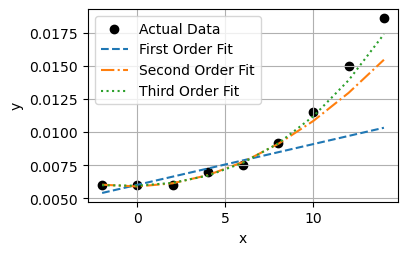
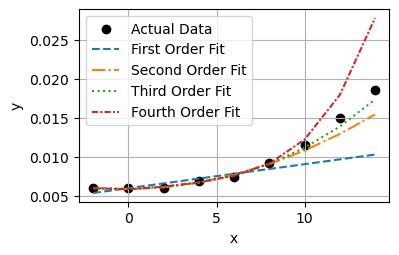
submitted HW 2

diff --git a/HW2/P3.py b/HW2/P3.py
@@ -5,7 +5,6 @@ import matplotlib.pyplot as plt
 from pandas.plotting import table
 
 
-
 x=np.array([-2,0,2,4,6,8,10,12,14])
 y=np.array([0.006,0.006,0.006,0.007,0.0075,0.0092,0.0115,0.015,0.0186])
 x_train = x[:6]
@@ -14,7 +13,7 @@ x_test = x[6:]
 y_test = y[6:]
 
 def to_sci(x):
-    return f"{x:.3e}"  # 4 sig figs in scientific notation
+    return f"{x:.3e}"  
 
 
 #Part 1
@@ -41,14 +40,11 @@ first_order_test = cost_test
 
 #Part 2
 P = np.array([x_train**0,x_train**1,x_train**2]).T
-
 P_inv = np.linalg.pinv(P)
-
 # Least squares solution
 theta = P_inv @ y_train
 
 # Calculate least squares cost on training data
-# Save table data to CSV
 y_train_pred = P @ theta
 cost_train = np.sum((y_train - y_train_pred)**2)
 print("Second order training cost:", cost_train)
@@ -64,9 +60,7 @@ second_order_test = cost_test
 
 #Part 3
 P = np.array([x_train**0,x_train**1,x_train**2,x_train**3]).T
-
 P_inv = np.linalg.pinv(P)
-
 # Least squares solution
 theta = P_inv @ y_train
 
@@ -84,21 +78,42 @@ print("Third order test cost:", cost_test)
 third_order_test = cost_test
 
 
-# Create table of errors with 4 sig figs and scientific notation
+# fourth order model
+P = np.array([x_train**0,x_train**1,x_train**2,x_train**3,x_train**4]).T
+P_inv = np.linalg.pinv(P)
+# Least squares solution
+theta = P_inv @ y_train
+
+# Calculate least squares cost on training data
+y_train_pred = P @ theta
+cost_train = np.sum((y_train - y_train_pred)**2)
+print("Fourth order training cost:", cost_train)
+fourth_order_train = cost_train
+
+# Calculate least squares cost on test data
+P_test = np.array([x_test**0, x_test**1, x_test**2, x_test**3, x_test**4]).T
+y_test_pred = P_test @ theta
+cost_test = np.sum((y_test - y_test_pred)**2)
+print("Fourth order test cost:", cost_test)
+fourth_order_test = cost_test
+
+
+# Create table of errors
 def to_sci(x):
-    return f"{x:.3e}"  # 4 sig figs in scientific notation
+    return f"{x:.3e}"  
 
 
 # Save table data and model parameters to CSV
 data = {
-    'Model Order': ['First', 'Second', 'Third'],
+    'Model Order': ['First', 'Second', 'Third', 'Fourth'],
     'Theta': [
         ', '.join([to_sci(v) for v in np.linalg.pinv(np.array([x_train**0, x_train**1]).T) @ y_train]),
         ', '.join([to_sci(v) for v in np.linalg.pinv(np.array([x_train**0, x_train**1, x_train**2]).T) @ y_train]),
-        ', '.join([to_sci(v) for v in np.linalg.pinv(np.array([x_train**0, x_train**1, x_train**2, x_train**3]).T) @ y_train])
+        ', '.join([to_sci(v) for v in np.linalg.pinv(np.array([x_train**0, x_train**1, x_train**2, x_train**3]).T) @ y_train]),
+        ', '.join([to_sci(v) for v in np.linalg.pinv(np.array([x_train**0, x_train**1, x_train**2, x_train**3, x_train**4]).T) @ y_train])
     ],
-    'Training Error': [to_sci(first_order_train), to_sci(second_order_train), to_sci(third_order_train)],
-    'Test Error': [to_sci(first_order_test), to_sci(second_order_test), to_sci(third_order_test)]
+    'Training Error': [to_sci(first_order_train), to_sci(second_order_train), to_sci(third_order_train), to_sci(fourth_order_train)],
+    'Test Error': [to_sci(first_order_test), to_sci(second_order_test), to_sci(third_order_test), to_sci(fourth_order_test)]
 }
 df = pd.DataFrame(data)
 df.to_csv('errorTable.csv', index=False)
@@ -135,6 +150,12 @@ P_full_3 = np.array([x**0, x**1, x**2, x**3]).T
 theta_3 = np.linalg.pinv(np.array([x_train**0, x_train**1, x_train**2, x_train**3]).T) @ y_train
 y_fit_3 = P_full_3 @ theta_3
 plt.plot(x, y_fit_3, label='Third Order Fit', linestyle=':')
+
+# Fourth order fit
+P_full_4 = np.array([x**0, x**1, x**2, x**3, x**4]).T
+theta_4 = np.linalg.pinv(np.array([x_train**0, x_train**1, x_train**2, x_train**3, x_train**4]).T) @ y_train
+y_fit_4 = P_full_4 @ theta_4
+plt.plot(x, y_fit_4, label='Fourth Order Fit', linestyle=(0, (3, 1, 1, 1)))
 
 plt.xlabel('x')
 plt.ylabel('y')